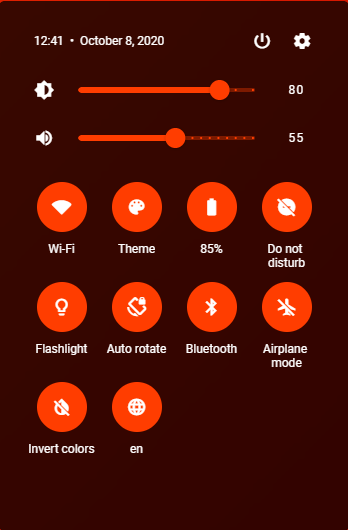
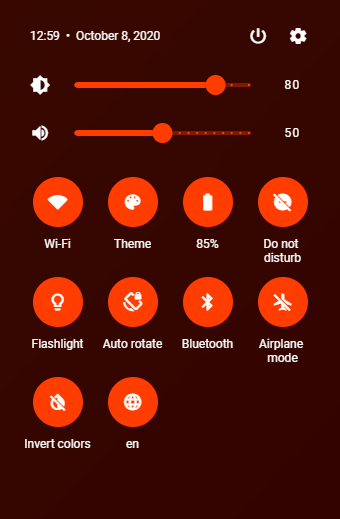
Updated a screenshot and new size

diff --git a/INTRODUCTION.md b/INTRODUCTION.md
@@ -100,7 +100,7 @@ We will be updating this regurarly and we invite all Dart (and Flutter :D) devel
 ## Taskbar
 
 <p align="left">
-  <img width="200%" src=".github/images/taskbar.png"
+  <img width="400%" src=".github/images/taskbar.png"
 </p>
 
 * Transparency
@@ -124,7 +124,7 @@ code_goes_here
 ## Quick settings
 
 <p align="left">
-  <img width="50%" src=".github/images/quicksettings.png"
+  <img width="40%" src=".github/images/quicksettings.png"
 </p>
 
 * Transparency
